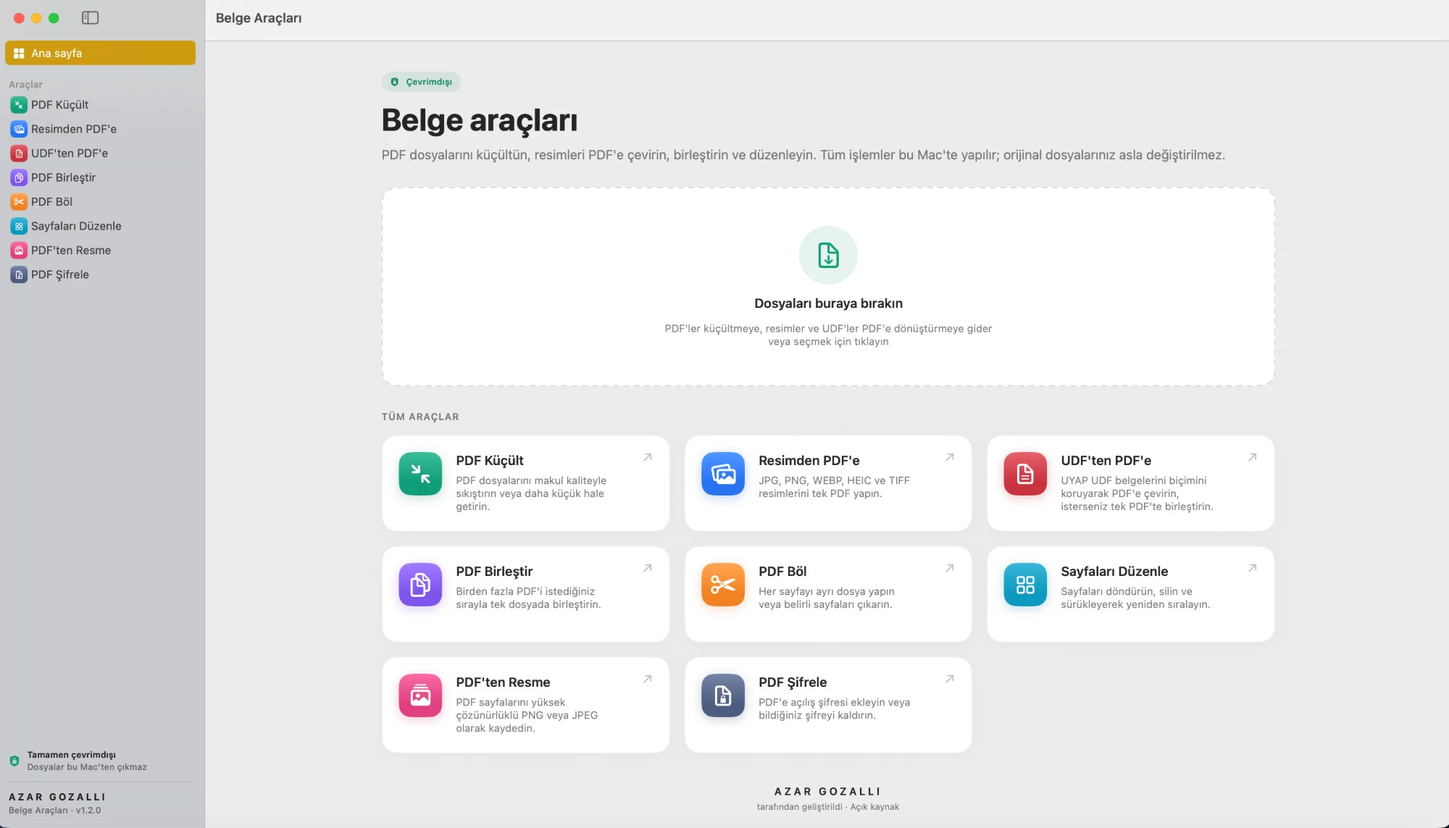
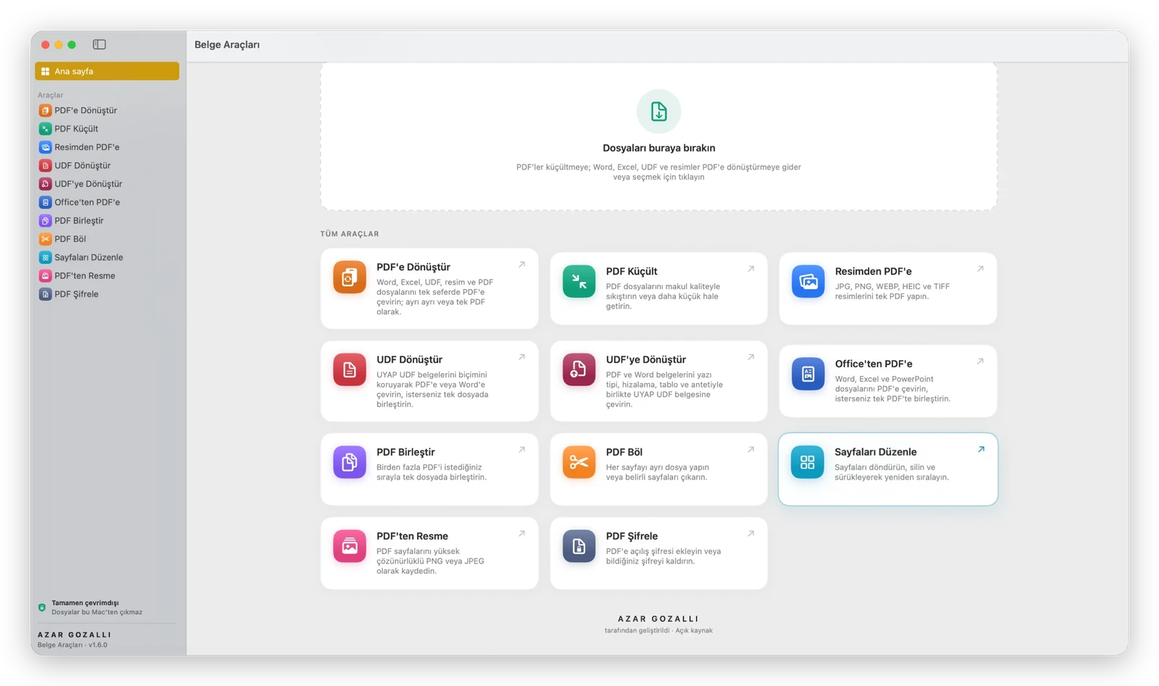
README ve ekran görüntülerini 1.6.0 ile güncelle
- README yeniden düzenlendi: öne çıkanlar, gruplu araç tabloları (Dönüştürme,
  UYAP UDF, PDF işlemleri), sayfa numarası, nasıl çalışır bölümleri ve
  güncel proje yapısı.
- 12 ekran görüntüsü 1.6.0 arayüzüyle yenilendi: masaüstü kenarları
  temizlendi, yuvarlatılmış köşe, ince kenarlık ve yumuşak gölge eklendi
  (açık ve koyu GitHub temasında düzgün görünür).

diff --git a/README.md b/README.md
@@ -5,8 +5,13 @@
 <h1 align="center">Belge Araçları</h1>
 
 <p align="center">
-  <b>macOS</b> ve <b>Windows</b> için tamamen <b>çevrimdışı</b> çalışan, hafif ve açık kaynak PDF araç kutusu.<br>
+  <b>macOS</b> ve <b>Windows</b> için tamamen <b>çevrimdışı</b> çalışan, açık kaynak belge araç kutusu.<br>
+  PDF, Word, Excel, PowerPoint, resim ve <b>UYAP UDF</b> belgelerini dönüştürün, birleştirin, küçültün ve düzenleyin.<br>
   Dosyalarınız hiçbir zaman bilgisayarınızdan çıkmaz.
+</p>
+
+<p align="center">
+  <a href="../../releases/latest"><b>İndir: macOS (.dmg) · Windows (.exe)</b></a>
 </p>
 
 <p align="center"><b>Geliştiren: AZAR GOZALLI</b></p>
@@ -17,82 +22,108 @@
 
 ---
 
-## Ekran görüntüleri
+## Öne çıkanlar
 
-| PDF Küçült | Resimden PDF'e |
-|---|---|
-| <img src="docs/screenshots/pdf-kucult.webp" alt="PDF Küçült"> | <img src="docs/screenshots/resimden-pdf.webp" alt="Resimden PDF'e"> |
-| **UDF Dönüştür** | **PDF Birleştir** |
-| <img src="docs/screenshots/udften-pdf.webp" alt="UDF Dönüştür"> | <img src="docs/screenshots/pdf-birlestir.webp" alt="PDF Birleştir"> |
-| **PDF Böl** | **Sayfaları Düzenle** |
-| <img src="docs/screenshots/pdf-bol.webp" alt="PDF Böl"> | <img src="docs/screenshots/sayfalari-duzenle.webp" alt="Sayfaları Düzenle"> |
-| **PDF'ten Resme** | **PDF Şifrele** |
-| <img src="docs/screenshots/pdften-resme.webp" alt="PDF'ten Resme"> | <img src="docs/screenshots/pdf-sifrele.webp" alt="PDF Şifrele"> |
+- **Her şeyi PDF'e:** Word, Excel, PowerPoint, UDF, resim ve PDF dosyalarını karışık olarak tek ekrana bırakın; ayrı ayrı PDF yapın veya listedeki sırayla tek PDF'te birleştirin.
+- **UYAP UDF, iki yönde:** UDF'yi biçimini koruyarak PDF'e veya Word'e; PDF ve Word belgelerini yazı tipi, tablo ve antetiyle UDF'ye çevirin.
+- **Sayfa numarası ekle:** PDF üreten her ekranda, konumu ve biçimi seçilebilir sayfa numarası.
+- **Tamamen yerel:** Giriş ekranı, hesap veya ağ kodu yoktur. Hiçbir dosya internete gönderilmez; orijinal dosyalar hiçbir zaman değiştirilmez.
 
-## Özellikler
+## Araçlar
+
+### Dönüştürme
 
 | Araç | Ne yapar |
 |---|---|
-| **PDF'e Dönüştür** | Word, Excel, PowerPoint, UDF, resim (JPG, PNG, TIFF…) ve PDF dosyalarını **karışık olarak tek ekrana bırakın**; her birini ayrı PDF yapın veya listedeki sırayla **tek PDF'te birleştirin**. |
-| **UDF'ye Dönüştür** | **PDF** ve **Word** (.docx, .doc, .rtf, .odt) belgelerini UYAP UDF'ye çevirir; yazı tipleri, boyutlar, kalın/italik/altı çizili, renkler, hizalama, girintiler, satır aralığı, sekmeler, listeler, tablolar, resimler, antet, üst/alt bilgi ve sayfa numaraları korunur. PDF'ler için "birebir görünüm" seçeneği her sayfayı resim olarak koyar. |
-| **Office'ten PDF'e** | Word (.docx, .doc, .rtf, .odt), Excel (.xlsx, .xls, .ods, .csv) ve PowerPoint (.pptx, .ppt, .odp) dosyalarını PDF'e çevirir; isterseniz tek PDF'te birleştirir. |
-| **PDF Küçült** | Makul / Daha Küçük / En Küçük seviyeleri. Metin seçilebilir kalır. Taranmış belgeler için ayrıca "taranmış belge modu". Birden fazla dosyayı tek seferde işler. |
-| **UDF Dönüştür** | UYAP belgelerini (.udf) biçimini koruyarak **PDF'e veya Word'e (.docx)** çevirir. Birden fazla UDF'yi sürükleyerek sıralayıp tek PDF'te veya tek Word belgesinde birleştirebilirsiniz. Yazı tipi, kalın/italik/altı çizili, hizalama, girintiler, sekmeler, numaralı listeler, tablolar, resimler, antetli kağıt (arka plan), üst/alt bilgi ve sayfa numaraları korunur; metin seçilebilir kalır. |
-| **Resimden PDF'e** | JPG, PNG, WEBP, HEIC, TIFF (çok sayfalı), GIF, BMP → tek PDF. Sayfa boyutu (A4, A5, Letter, Legal, resme göre), yönlendirme, kenar boşluğu ve kalite ayarı. Sürükleyerek sıralama. |
+| **PDF'e Dönüştür** | Word, Excel, PowerPoint, UDF, resim (JPG, PNG, TIFF…) ve PDF dosyalarını **karışık olarak** alır; her birini ayrı PDF yapar veya listedeki sırayla **tek PDF'te birleştirir**. Sıra sürükleyerek değiştirilir. |
+| **Office'ten PDF'e** | Word (.docx, .doc, .rtf, .odt), Excel (.xlsx, .xls, .ods, .csv) ve PowerPoint (.pptx, .ppt, .odp) dosyalarını PDF'e çevirir, isterseniz birleştirir. |
+| **Resimden PDF'e** | JPG, PNG, WEBP, HEIC, TIFF (çok sayfalı), GIF ve BMP dosyalarını tek PDF yapar. Sayfa boyutu (A4, A5, Letter, Legal, resme göre), yönlendirme, kenar boşluğu ve kalite ayarlanır. |
+| **PDF'ten Resme** | Sayfaları 72 / 150 / 300 DPI PNG veya JPEG olarak kaydeder. |
+
+### UYAP UDF
+
+| Araç | Ne yapar |
+|---|---|
+| **UDF Dönüştür** | UYAP belgelerini (.udf) biçimini koruyarak **PDF'e** veya düzenlenebilir **Word'e (.docx)** çevirir. Birden fazla UDF sıralanıp tek dosyada birleştirilebilir. PDF'te metin seçilebilir kalır. |
+| **UDF'ye Dönüştür** | **PDF** ve **Word** (.docx, .doc, .rtf, .odt) belgelerini UYAP UDF'ye çevirir. PDF'ler için "birebir görünüm" seçeneği her sayfayı resim olarak koyar. |
+
+İki yönde de korunanlar: yazı tipleri ve boyutları, kalın/italik/altı ve üstü çizili metin, yazı ve zemin rengi, hizalama, girintiler (asılı girinti dahil), satır aralığı, paragraf boşlukları, sekmeler ve noktalı dolgular, numaralı ve madde işaretli listeler, tablolar (birleştirilmiş hücreler dahil), resimler, antetli kağıt, üst/alt bilgi ve sayfa numaraları.
+
+### PDF işlemleri
+
+| Araç | Ne yapar |
+|---|---|
+| **PDF Küçült** | Makul / Daha Küçük / En Küçük seviyeleri; metin seçilebilir kalır. Taranmış belgeler için ayrıca "taranmış belge modu". Birden fazla dosyayı tek seferde işler; sonuç orijinalden büyük çıkarsa yeni dosya oluşturmaz. |
 | **PDF Birleştir** | Birden fazla PDF'i istediğiniz sırayla tek dosyada birleştirir. |
 | **PDF Böl** | Her sayfayı ayrı dosya yapar, `1-3, 5, 8-` gibi sayfaları çıkarır veya her N sayfada böler. |
 | **Sayfaları Düzenle** | Sayfa küçük resimleri üzerinde döndürme, silme ve sürükleyerek sıralama. |
-| **PDF'ten Resme** | Sayfaları 72 / 150 / 300 DPI PNG veya JPEG olarak kaydeder. |
-| **PDF Şifrele** | Açılış şifresi ekler veya bildiğiniz şifreyi kaldırır. |
+| **PDF Şifrele** | AES-256 açılış şifresi ekler veya bildiğiniz şifreyi kaldırır. |
 
-**Sayfa numarası ekle:** PDF üreten her araçta (PDF'e Dönüştür, Office'ten PDF'e, Resimden PDF'e, UDF Dönüştür, PDF Birleştir) çıkan PDF'in her sayfasına sırayla numara eklenebilir. Konum (sol/orta/sağ, üst/alt) ve biçim ("1", "1 / 12", "Sayfa 1", "Sayfa 1 / 12", "- 1 -") seçilir; birleştirilen PDF'te numaralar baştan sona kesintisiz devam eder, döndürülmüş sayfalarda da doğru köşeye düz yazılır. Orijinal PDF'ler hiçbir zaman değiştirilmez; numara yeni dosyaya eklenir.
+### Sayfa numarası ekle
+
+PDF üreten her araçta (PDF'e Dönüştür, Office'ten PDF'e, Resimden PDF'e, UDF Dönüştür ve PDF Birleştir) çıkan PDF'in her sayfasına sırayla numara eklenebilir:
+
+- **Konum:** sol, orta veya sağ; üstte veya altta. Küçük bir sayfa resmi üzerinde tek tıkla seçilir.
+- **Biçim:** "1", "1 / 12", "Sayfa 1", "Sayfa 1 / 12" veya "- 1 -".
+- Birleştirilen PDF'te numaralar baştan sona **kesintisiz** devam eder; döndürülmüş sayfalarda da seçilen köşeye düz yazılır.
+- Numaranın arkasındaki küçük beyaz zemin sayesinde renkli antet bandının üstünde de okunur.
+- Zaten PDF olan bir dosya numaralanırsa orijinali değişmez; "… - numaralı.pdf" adlı yeni bir kopya oluşur.
+
+## Ekran görüntüleri
+
+| PDF'e Dönüştür | UDF'ye Dönüştür |
+|---|---|
+| <img src="docs/screenshots/pdfe-donustur.webp" alt="PDF'e Dönüştür: karışık dosyalar ve sayfa numarası seçenekleri"> | <img src="docs/screenshots/udfye-donustur.webp" alt="UDF'ye Dönüştür"> |
+| **UDF Dönüştür** | **Office'ten PDF'e** |
+| <img src="docs/screenshots/udf-donustur.webp" alt="UDF Dönüştür"> | <img src="docs/screenshots/officeten-pdf.webp" alt="Office'ten PDF'e"> |
+| **PDF Küçült** | **Resimden PDF'e** |
+| <img src="docs/screenshots/pdf-kucult.webp" alt="PDF Küçült"> | <img src="docs/screenshots/resimden-pdf.webp" alt="Resimden PDF'e"> |
+| **PDF Birleştir** | **PDF Böl** |
+| <img src="docs/screenshots/pdf-birlestir.webp" alt="PDF Birleştir"> | <img src="docs/screenshots/pdf-bol.webp" alt="PDF Böl"> |
+| **Sayfaları Düzenle** | **PDF'ten Resme** |
+| <img src="docs/screenshots/sayfalari-duzenle.webp" alt="Sayfaları Düzenle"> | <img src="docs/screenshots/pdften-resme.webp" alt="PDF'ten Resme"> |
+| **PDF Şifrele** | |
+| <img src="docs/screenshots/pdf-sifrele.webp" alt="PDF Şifrele"> | |
+
+## Genel özellikler
 
 - Giriş ekranı veya hesap yoktur; uygulama açılınca doğrudan çalışır.
 - **Ağ kodu yoktur.** Hiçbir veri internete gönderilmez veya internetten alınmaz.
 - Orijinal dosyalar hiçbir zaman değiştirilmez veya üzerine yazılmaz. Yeni dosyalar orijinalin yanına (veya Ayarlar'da seçtiğiniz klasöre) kaydedilir.
-- PDF küçültme, sonuç orijinalden büyük çıkarsa yeni dosya oluşturmaz.
-- Finder'da PDF veya resimleri Dock simgesinin üzerine bırakabilir veya "Birlikte Aç" menüsünden kullanabilirsiniz.
+- Dosyaları ana sayfaya bırakınca uygulama doğru araca yönlendirir: PDF'ler küçültmeye; Word, Excel, UDF ve resimler PDF'e dönüştürmeye gider. Karışık dosyalar "PDF'e Dönüştür"de açılır.
+- macOS'ta dosyaları Dock simgesinin üzerine bırakabilir veya Finder'ın "Birlikte Aç" menüsünden kullanabilirsiniz.
 - Açık ve koyu görünüm desteklenir. Apple Silicon ve Intel Mac'lerde çalışır (macOS 14 Sonoma ve üzeri).
-- **Windows 10 ve 11** için ayrı bir sürüm vardır (aşağıya bakın). Arayüz ve araçlar aynıdır. Tek fark: Windows sürümü HEIC fotoğrafları okumaz; önce JPG olarak kaydedin.
+- **Windows 10 ve 11** sürümünün arayüzü ve araçları aynıdır. Tek fark: Windows sürümü HEIC fotoğrafları okumaz; önce JPG olarak kaydedin.
 
-### UDF nasıl dönüştürülür?
+## Nasıl çalışır?
 
-UDF, UYAP Doküman Editörü'nün biçimidir: içinde tüm metin ve her metin parçasının yazı tipi, boyutu, hizalaması, girintileri ve sekme durakları bulunan bir XML dosyası taşıyan bir ZIP arşividir. Uygulama bu bilgileri okuyup sayfayı UYAP'ın kurallarıyla yeniden dizer:
+### UDF → PDF ve Word
+
+UDF, UYAP Doküman Editörü'nün biçimidir: tüm metni ve her metin parçasının yazı tipi, boyutu, hizalaması, girintileri ve sekme duraklarını tutan bir XML dosyası taşıyan bir ZIP arşivi. Uygulama bu bilgileri okuyup sayfayı UYAP'ın kurallarıyla yeniden dizer:
 
 - **macOS:** Apple'ın metin motoru (TextKit) ile doğrudan PDF'e çizilir.
 - **Windows:** Belge HTML'e çevrilip yerleşik Microsoft Edge WebView2 motoruyla PDF'e yazdırılır; antet, üst/alt bilgi ve sayfa numaraları her sayfanın altına ayrı bir katman olarak yerleştirilir.
+- **Word:** Çıktı Microsoft Word, Pages ve LibreOffice'te açılan, düzenlenebilir bir `.docx` belgesidir. Antet her sayfada metnin arkasında durur; sayfa numaraları Word'ün canlı alanlarıdır (SAYFA / TOPLAM). Birleştirilen her UDF kendi sayfa düzeniyle ayrı bir Word bölümü olur. Liste numaraları UYAP'taki gibi metin olarak yazılır: Word'ün harfli numaralandırması İngiliz alfabesini (a, b, c, d), UYAP Türk alfabesini (a, b, c, ç) kullanır.
 
-Satır kırılımları iki platformda ve UYAP'ta yazı tipi ölçümü farkından dolayı birkaç kelime kayabilir; içerik ve biçim aynı kalır.
+Satır kırılımları platformlar ve UYAP arasında yazı tipi ölçümü farkından dolayı birkaç kelime kayabilir; içerik ve biçim aynı kalır.
 
-Desteklenen UDF özellikleri: yazı tipi, boyut, kalın/italik/altı ve üstü çizili, yazı ve zemin rengi, hizalama, girintiler (asılı girinti dahil), satır aralığı, paragraf boşlukları, sekme durakları (sola/sağa/ortaya/ondalık hizalı; noktalı, tireli ve çizgili dolgular), çok düzeyli numaralı ve madde işaretli listeler (Türk alfabesiyle harfli, Roma rakamlı, `NumberSetted` ile devam eden), satır bazında birleştirilmiş hücreli ve iç içe tablolar ile kenarlık türleri, satır içi resimler, antetli kağıt, üst/alt bilgi ve sayfa numaraları.
+### PDF ve Word → UDF
 
-#### UDF → Word
+Çıktı, UYAP Doküman Editörü'nün kurallarına göre yazılır: tek `content.xml`, `format_id="1.8"`, metnin tamamını boşluksuz kapsayan biçim aralıkları, `<page-break>` ile sayfa sonları, `mediaSizeName` ile kağıt boyutu ve UYAP'ın kendi numaralı/madde işaretli listeleri. Emoji gibi Editör'ün açamadığı karakterler değiştirilir ve her dosya bu kurallara göre denetlenir.
 
-Word çıktısı düzenlenebilir bir `.docx` belgesidir ve Microsoft Word, Pages ve LibreOffice'te açılır. Sayfa boyutu ve kenar boşlukları, yazı tipleri, hizalama, girintiler, sekmeler ve dolguları, tablolar (birleştirilmiş hücreler dahil), resimler ve üst/alt bilgi korunur. Antet her sayfada metnin arkasında durur; sayfa numaraları Word'ün canlı alanlarıdır (SAYFA / TOPLAM). Birleştirilen her UDF, kendi sayfa düzeni ve numaralandırmasıyla ayrı bir Word bölümü olur.
-
-Liste numaraları UYAP'taki gibi metin olarak yazılır: Word'ün harfli numaralandırması İngiliz alfabesini kullanır (a, b, c, d), UYAP ise Türk alfabesini (a, b, c, ç). Satır kırılımları Word'ün yazı ölçülerine göre biraz değişebilir.
-
-Word yazıcısı her iki platformun ortak kullandığı Rust çekirdeğindedir (`core/`): Windows sürümü bunu doğrudan içerir, macOS sürümü ise uygulama paketinde `belge-core` adlı küçük bir komut satırı aracı olarak taşır.
-
-**Teşekkür:** UYAP Doküman Editörü'nün bazı öznitelikleri nasıl yorumladığına dair bilgiler (sayfa numarası bitleri, alt düzey liste biçimleri, harfli listelerin Türk alfabesiyle sayılması, tablo sütun oranları ve kenarlık türleri, sekme dolguları), Av. Arb. Mevlana İbrahim Asım Bilir'in [UDF Çevirici](https://github.com/miasimbilir/udf-cevirici) projesinin belgelerinden öğrenilmiştir. O projenin kodu kullanılmamıştır; uygulama bu bilgilerle bağımsız olarak yazılmıştır.
-
-### PDF ve Word'den UDF'ye
-
-Çıktı, UYAP Doküman Editörü'nün kurallarına göre yazılır: tek `content.xml`, `format_id="1.8"`, metnin tamamını boşluksuz kapsayan biçim aralıkları, `<page-break>` ile sayfa sonları, `mediaSizeName` ile kağıt boyutu, UYAP'ın kendi numaralı/madde işaretli listeleri; emoji gibi Editör'ün açamadığı karakterler değiştirilir. Uygulama her dosyayı bu kurallara göre denetler.
-
-- **Word:** Belge Word'ün kurallarıyla (stiller, numaralandırma, sekmeler, tablolar, resimler, üst/alt bilgi, sayfa numarası, sayfa sonları) okunur. Paragraf içi satır sonları ayrı paragraflara bölünür (UDF'de karşılığı yok); harfli listeler UYAP Türk alfabesiyle saydığı için 4. maddeden sonra metin olarak yazılır. .doc, .rtf ve .odt önce kurulu Microsoft Word veya LibreOffice ile .docx'e çevrilir.
-- **PDF:** Sayfanın çizim komutları okunur: her harfin konumu, yazı tipi, boyutu, rengi ve kalın/italikliği; altı çizgiler, vurgular, tablo çizgileri ve resimler. Bunlardan satırlar, paragraflar (hizalama, girinti, satır aralığı, paragraf boşluğu), sekmeler ve dolguları, listeler, çizgili tablolar (birleşik hücreler dahil), her sayfada tekrarlanan üst/alt bilgi, sayfa numarası ve antet yeniden kurulur. Dipnotlar belgenin sonuna alınır; taranmış (metinsiz) sayfalar resim olarak eklenir. Döndürülmüş metin (ör. kenar boşluğundaki dikey sayfa numarası) aktarılmaz.
+- **Word:** Belge Word'ün kurallarıyla (stiller, numaralandırma, sekmeler, tablolar, resimler, üst/alt bilgi, sayfa numarası, sayfa sonları) okunur. Paragraf içi satır sonları, UDF'de karşılığı olmadığı için ayrı paragraflara bölünür. Harfli listeler 4. maddeden sonra metin olarak yazılır (UYAP Türk alfabesiyle sayar). .doc, .rtf ve .odt önce kurulu Microsoft Word veya LibreOffice ile .docx'e çevrilir.
+- **PDF:** Sayfanın çizim komutları okunur: her harfin konumu, yazı tipi, boyutu, rengi ve kalın/italikliği; altı çizgiler, vurgular, tablo çizgileri ve resimler. Bunlardan satırlar, paragraflar (hizalama, girinti, satır aralığı, paragraf boşluğu), sekmeler ve dolguları, listeler, çizgili ve yalnızca satır çizgili tablolar, her sayfada tekrarlanan üst/alt bilgi, sayfa numarası ve antet yeniden kurulur. Dipnotlar belgenin sonuna alınır; taranmış (metinsiz) sayfalar resim olarak eklenir. Döndürülmüş metin (ör. kenar boşluğundaki dikey sayfa numarası) aktarılmaz.
 
 Dönüştürülen UDF'yi UYAP'a göndermeden önce UYAP Doküman Editörü'nde açıp kontrol edin.
 
-### Office dosyaları nasıl çevrilir?
+### Office dosyaları
 
-Office'in görünümünü birebir çizebilen, uygulamaya gömülebilecek kadar küçük bir motor yoktur. Bu yüzden iki yol birlikte kullanılır, ikisi de tamamen çevrimdışıdır:
+Office'in görünümünü birebir çizebilen, uygulamaya gömülebilecek kadar küçük bir motor yoktur. Bu yüzden iki yol birlikte kullanılır; ikisi de tamamen çevrimdışıdır:
 
-- **Bilgisayarda Microsoft Office veya LibreOffice varsa** dosya onunla açılıp PDF'e aktarılır; sonuç Office'te yazdırdığınızla aynıdır. Excel, PowerPoint ve eski .doc/.xls/.ppt dosyaları bu yolla çevrilir. macOS'ta ilk seferde sistem, Belge Araçları'nın Word/Excel/PowerPoint'i kullanmasına izin vermenizi ister. Bu, Ayarlar'dan kapatılabilir.
-- **Hiçbiri yoksa** Word (.docx) dosyaları yerleşik dönüştürücüyle çevrilir: belge Word'ün kurallarıyla (stiller, numaralandırma, sekmeler, tablolar, resimler, üst/alt bilgi, sayfa numarası, sayfa sonları) okunup UDF'teki gibi PDF'e dizilir. Dipnotlar belgenin sonuna taşınır; çok bölümlü belgelerde son bölümün sayfa düzeni kullanılır. Office'te bulunan ama bilgisayarda olmayan yazı tipleri (ör. Calibri) benzer bir yazı tipiyle değiştirilir.
+- **Bilgisayarda Microsoft Office veya LibreOffice varsa** dosya onunla açılıp PDF'e aktarılır; sonuç Office'te yazdırdığınızla aynıdır. Excel, PowerPoint ve eski .doc/.xls/.ppt dosyaları bu yolla çevrilir. macOS'ta ilk seferde sistem, Belge Araçları'nın Word/Excel/PowerPoint'i kullanmasına izin vermenizi ister. Bu yol Ayarlar'dan kapatılabilir.
+- **Hiçbiri yoksa** Word (.docx) dosyaları yerleşik dönüştürücüyle çevrilir: belge Word'ün kurallarıyla okunup UDF'teki gibi PDF'e dizilir. Dipnotlar belgenin sonuna taşınır; çok bölümlü belgelerde son bölümün sayfa düzeni kullanılır. Bilgisayarda olmayan Office yazı tipleri (ör. Calibri) benzer bir yazı tipiyle değiştirilir.
 
-### PDF küçültme nasıl çalışır?
+### PDF küçültme
 
 Uygulama birkaç yerel yöntemi dener ve **en küçük geçerli sonucu** seçer:
 
@@ -100,15 +131,17 @@ Uygulama birkaç yerel yöntemi dener ve **en küçük geçerli sonucu** seçer:
 2. **PDFKit optimizasyonu**
 3. **Ghostscript** *(isteğe bağlı):* Bilgisayarda kuruluysa (`brew install ghostscript`) bu motor da otomatik olarak denenir. Kurulu olması zorunlu değildir.
 
-Her sonuç sayfa sayısıyla doğrulanır.
+Her sonuç sayfa sayısıyla doğrulanır. Windows sürümünde yerleşik motor Rust ile yazılmıştır: PDF içindeki görselleri paralel olarak yeniden JPEG'e kodlar ve küçültür; metin ve vektör içerik olduğu gibi kalır. Ghostscript kuruluysa (`C:\Program Files\gs`) o da denenir.
 
-Windows sürümünde yerleşik motor Rust ile yazılmıştır: PDF içindeki görselleri paralel olarak yeniden JPEG'e kodlar ve küçültür; metin ve vektör içerik olduğu gibi kalır. Ghostscript kuruluysa (`C:\Program Files\gs`) o da denenir.
+### Teşekkür
+
+UYAP Doküman Editörü'nün bazı öznitelikleri nasıl yorumladığına ve bir UDF'nin Editör'de açılabilmesi için gereken kurallara dair bilgiler (sayfa numarası bitleri, alt düzey liste biçimleri, harfli listelerin Türk alfabesiyle sayılması, tablo sütun oranları ve kenarlık türleri, sekme dolguları, sayfa sonları, kağıt boyutu kodları, BMP dışı karakterler, metin aralıklarının boşluksuz olması), Av. Arb. Mevlana İbrahim Asım Bilir'in [UDF Çevirici](https://github.com/miasimbilir/udf-cevirici) projesinin belgelerinden öğrenilmiştir. O projenin kodu kullanılmamıştır; uygulama bu bilgilerle bağımsız olarak yazılmıştır.
 
 ## Kurulum
 
 ### macOS
 
-1. [Releases](../../releases) sayfasından `Belge-Araclari-x.y.z.dmg` dosyasını indirin.
+1. [Releases](../../releases/latest) sayfasından `Belge-Araclari-x.y.z.dmg` dosyasını indirin.
 2. DMG'yi açıp **Belge Araçları** simgesini **Applications** klasörüne sürükleyin.
 3. Uygulama Apple Developer hesabıyla imzalanmadığı için ilk açılışta macOS uyarı verebilir:
    - Uygulamaya sağ tıklayıp **Aç** seçeneğini seçin, **ya da**
@@ -117,7 +150,7 @@ Windows sürümünde yerleşik motor Rust ile yazılmıştır: PDF içindeki gö
 
 ### Windows
 
-1. [Releases](../../releases) sayfasından `Belge.Araclari_x.y.z_x64-setup.exe` dosyasını indirin.
+1. [Releases](../../releases/latest) sayfasından `Belge.Araclari_x.y.z_x64-setup.exe` dosyasını indirin.
 2. Kurulum dosyasını çalıştırın. Yönetici izni gerekmez; uygulama yalnızca sizin kullanıcı hesabınıza kurulur.
 3. Kurulum dosyası dijital olarak imzalanmadığı için Windows SmartScreen "Windows bilgisayarınızı korudu" uyarısı gösterebilir. **Ek bilgi → Yine de çalıştır** ile devam edin.
 
@@ -125,7 +158,9 @@ Uygulama arayüz için Windows'ta yerleşik olan Microsoft Edge WebView2'yi kull
 
 ## Kaynaktan derleme
 
-Xcode Komut Satırı Araçları (Swift 5.10 veya üzeri) ve Rust gerekir (Word dönüştürücüsü için; bir kez `rustup target add aarch64-apple-darwin x86_64-apple-darwin`).
+### macOS
+
+Xcode Komut Satırı Araçları (Swift 5.10 veya üzeri) ve Rust gerekir. Ortak çekirdek iki mimari için derlendiğinden bir kez `rustup target add aarch64-apple-darwin x86_64-apple-darwin` çalıştırın.
 
 ```bash
 git clone https://github.com/avazargozalli/belge-araclari.git
@@ -136,52 +171,57 @@ cd belge-araclari
 
 Geliştirme sırasında doğrudan çalıştırmak için: `swift run`
 
-### Windows sürümü
+### Windows
 
-Node.js 22+ ve Rust (stable) gerekir. Windows kurulum dosyası her `main` güncellemesinde GitHub Actions tarafından Windows üzerinde derlenir, test edilir ve sessizce kurulup açılarak denenir. Yeni bir Release yayımlandığında kurulum dosyası otomatik olarak o sürüme eklenir.
+Node.js 22+ ve Rust (stable) gerekir. Windows kurulum dosyası her `main` güncellemesinde GitHub Actions tarafından Windows üzerinde derlenir, test edilir, sessizce kurulur ve kurulu uygulamayla örnek belgeler PDF'e, Word'e ve UDF'ye çevrilerek denetlenir. Yeni bir Release yayımlandığında kurulum dosyası otomatik olarak o sürüme eklenir.
 
 ```bash
 cd windows
 npm ci
-cargo test --manifest-path ../core/Cargo.toml       # UDF okuyucu ve Word yazıcısı testleri
-cargo test --manifest-path src-tauri/Cargo.toml   # PDF motoru testleri (her platformda çalışır)
-npm run build                                      # Windows'ta: kurulum dosyası üretir
+cargo test --manifest-path ../core/Cargo.toml       # ortak çekirdek: UDF, Word, PDF okuyucu, sayfa numarası
+cargo test --manifest-path src-tauri/Cargo.toml     # PDF motoru testleri (her platformda çalışır)
+npm run build                                       # Windows'ta: kurulum dosyası üretir
 ```
 
 ## Proje yapısı
 
 ```
-Sources/BelgeAraclari/
-  BelgeAraclariApp.swift     Uygulama, menüler, pencereler
-  Engine/                    PDF işlemleri (UI'dan bağımsız)
-    Compressor.swift         PDF küçültme
-    ImageToPDF.swift         Resimden PDF
-    PDFEngine.swift          Birleştir, böl, render, şifrele
-    Support.swift            Dosya, çıktı ve görsel yardımcıları
-    UDF.swift                UDF okuma ve TextKit ile PDF'e dizme
-    UDFWord.swift            UDF → Word (paketteki belge-core aracını çalıştırır)
-    DocumentConverter.swift  Karışık dosyaları ve Office belgelerini PDF'e çevirme
-    UDFMaker.swift           PDF / Word → UDF
-  Models/                    Uygulama durumu ve araç modelleri
-  Views/                     SwiftUI arayüzü
+Sources/BelgeAraclari/        macOS uygulaması (SwiftUI)
+  BelgeAraclariApp.swift      Uygulama, menüler, pencereler
+  Engine/                     İşlemler (arayüzden bağımsız)
+    Compressor.swift          PDF küçültme
+    ImageToPDF.swift          Resimden PDF
+    PDFEngine.swift           Birleştir, böl, render, şifrele
+    UDF.swift                 UDF okuma ve TextKit ile PDF'e dizme
+    UDFWord.swift             UDF → Word
+    UDFMaker.swift            PDF / Word → UDF
+    DocumentConverter.swift   Karışık dosyaları ve Office belgelerini PDF'e çevirme
+    PageNumbering.swift       Sayfa numarası ekleme
+    BelgeCore.swift           Paketteki ortak çekirdeği (belge-core) çalıştırma
+    Support.swift             Dosya, çıktı ve görsel yardımcıları
+  Models/                     Uygulama durumu ve araç modelleri
+  Views/                      Arayüz
+core/                         Ortak Rust çekirdeği (macOS'ta belge-core aracı, Windows'ta kütüphane)
+  src/udf.rs                  UDF okuyucu ve yazdırmaya hazır HTML
+  src/udf/docx.rs             UDF → Word
+  src/word.rs                 Yerleşik Word (.docx) okuyucu
+  src/pdf/read.rs             PDF okuyucu: harfler, yazı tipleri, renkler, çizgiler, resimler
+  src/pdf/mod.rs              Sayfa düzeni → UDF
+  src/pdf/numbers.rs          Sayfa numarası ekleme
+  src/udfout.rs               UYAP kurallarına uygun UDF yazıcısı ve denetleyicisi
+  src/convert.rs              PDF / Word → UDF
+  src/office.rs               Kurulu Microsoft Office / LibreOffice ile dönüştürme
+windows/                      Windows sürümü (Tauri 2)
+  src-tauri/src/lib.rs        Arayüz ile motor arasındaki komutlar
+  src-tauri/src/engine/       PDF motoru (Rust, lopdf): küçült, resimden PDF, birleştir, böl, şifrele
+  src-tauri/src/udf_print.rs  UDF'yi WebView2 ile PDF'e yazdırma
+  src-tauri/src/convert.rs    Karışık dosyaları ve Office belgelerini PDF'e çevirme
+  ui/                         Arayüz (HTML/CSS/JS); sayfa görüntüleme için yerel pdf.js
+  tests/fixtures/             Örnek (gerçek veri içermeyen) UDF test dosyası
 Scripts/
-  build.sh                   .app + .dmg paketleme
-  make_icon.swift            Uygulama ikonunu çizer
-core/                        Ortak Rust çekirdeği: UDF okuyucu, HTML ve Word (.docx) yazıcıları
-  src/udf/docx.rs            UDF → Word
-  src/word.rs                Yerleşik Word (.docx) okuyucu
-  src/pdf/                   PDF okuyucu (read.rs) ve sayfa düzeni → UDF (mod.rs)
-  src/udfout.rs              UYAP kurallarına uygun UDF yazıcısı ve denetleyicisi
-  src/convert.rs             PDF / Word → UDF
-  src/office.rs              Kurulu Microsoft Office / LibreOffice ile PDF'e çevirme
-windows/                     Windows sürümü (Tauri 2)
-  src-tauri/src/engine/      PDF motoru (Rust, lopdf): küçült, resimden PDF, UDF, birleştir, böl, şifrele
-  src-tauri/src/udf_print.rs UDF'yi WebView2 ile PDF'e yazdırma
-  src-tauri/src/convert.rs   Karışık dosyaları ve Office belgelerini PDF'e çevirme
-  tests/fixtures/            Örnek (gerçek veri içermeyen) UDF test dosyası
-  src-tauri/src/lib.rs       Arayüz ile motor arasındaki komutlar
-  ui/                        Arayüz (HTML/CSS/JS); sayfa görüntüleme için yerel pdf.js
-.github/workflows/windows.yml  Windows derleme, test ve kurulum dosyası
+  build.sh                    .app + .dmg paketleme
+  make_icon.swift             Uygulama ikonunu çizer
+.github/workflows/windows.yml Windows derleme, test ve kurulum denetimi
 ```
 
 ## Lisans
